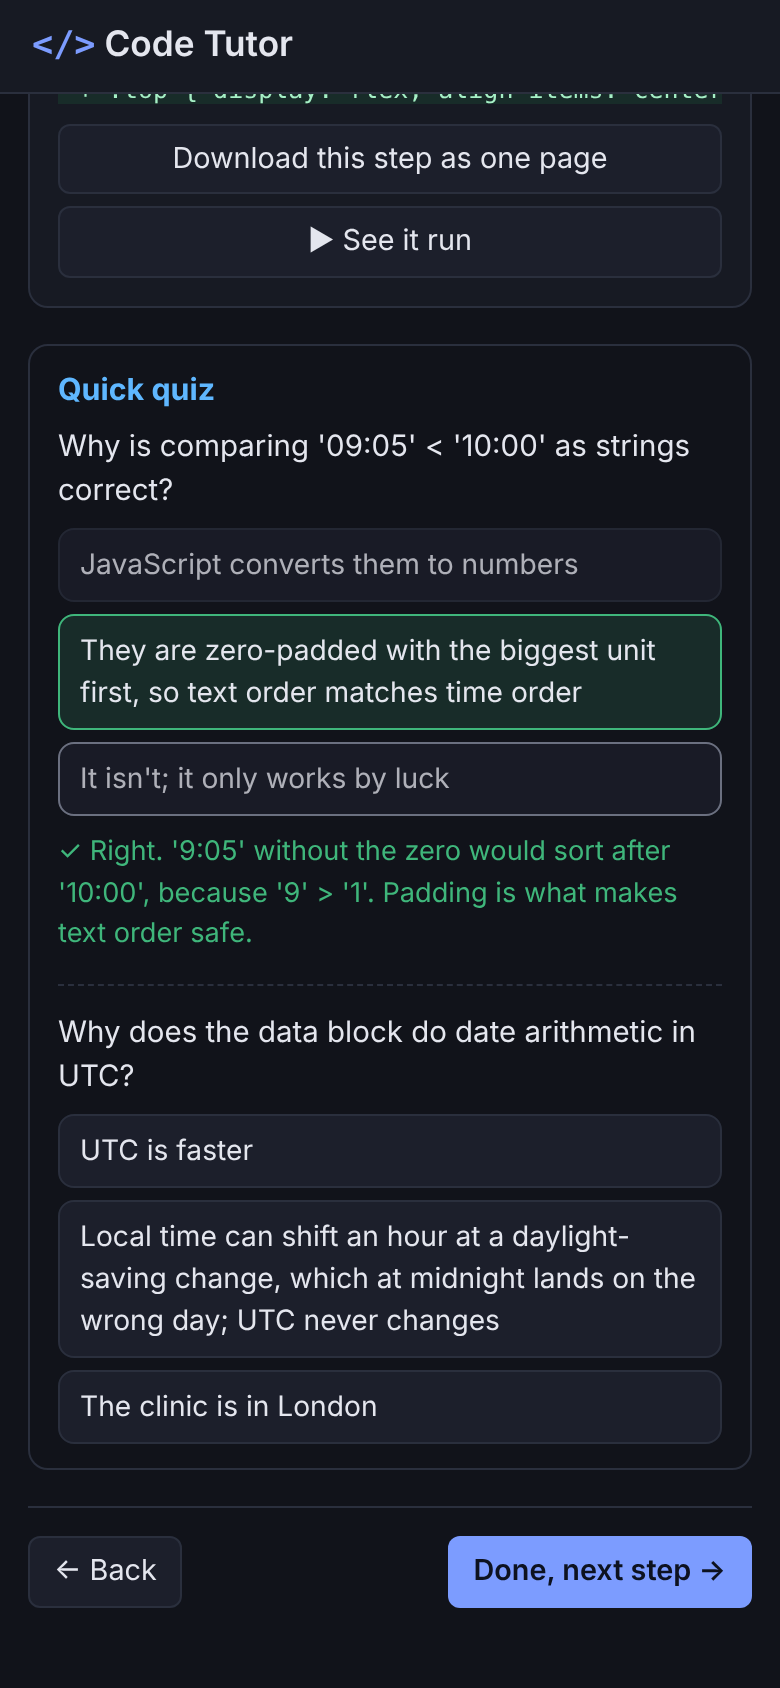
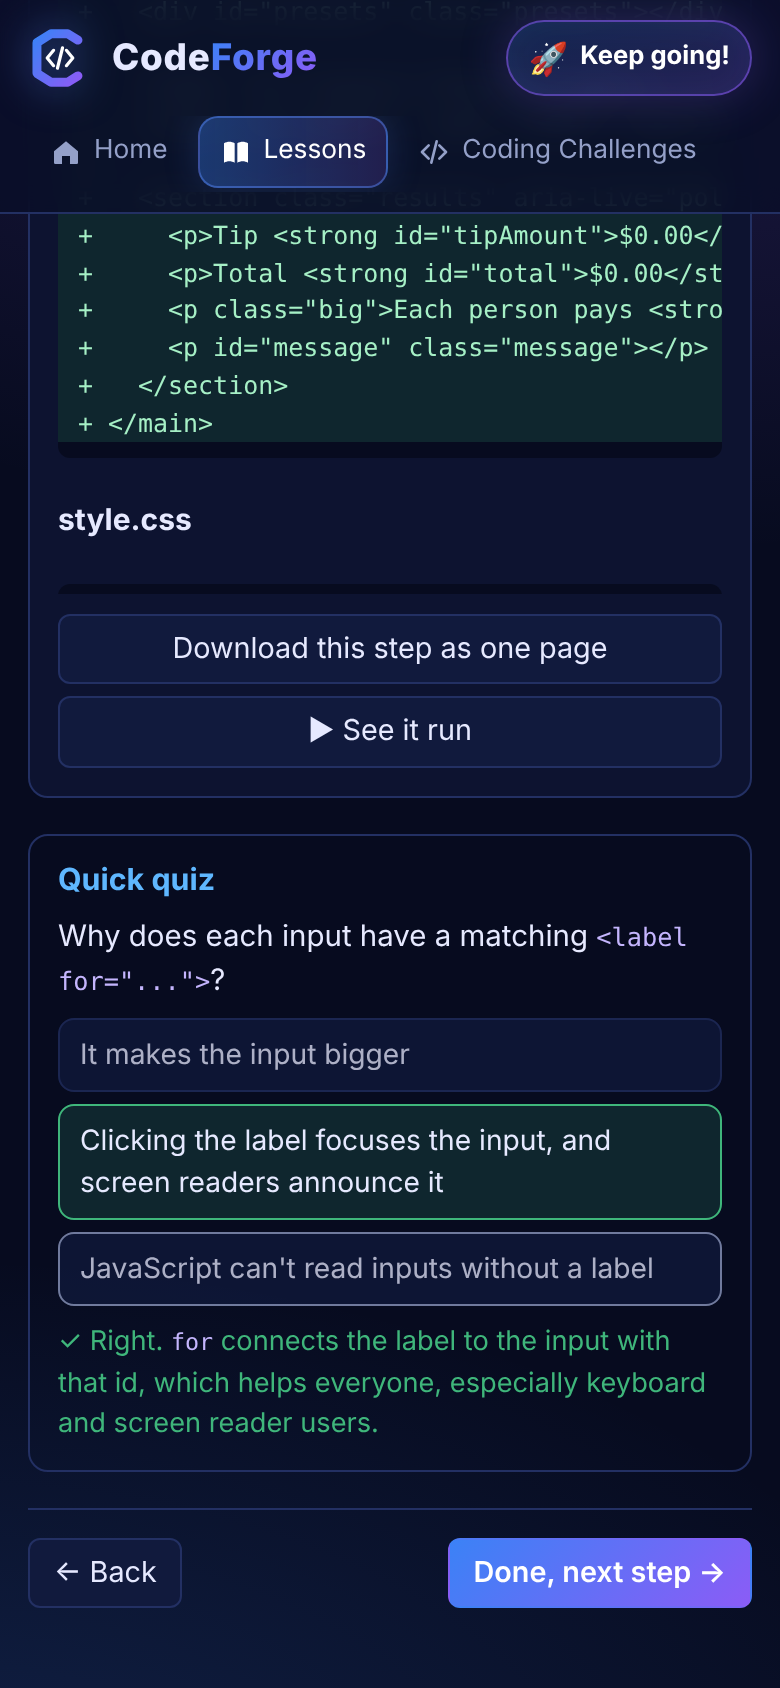
README: new screenshots and a tour of the app's pages, and no sideways scrolling on phones

diff --git a/style.css b/style.css
@@ -211,7 +211,7 @@ pre.full code { white-space: pre; }
 [hidden] { display: none !important; }
 
 @media (max-width: 860px) {
-  .app { grid-template-columns: 1fr; }
+  .app { grid-template-columns: minmax(0, 1fr); }
   .sidebar { position: sticky; top: 0; z-index: 3; height: auto; flex-direction: row; flex-wrap: wrap; align-items: center; gap: 10px; padding: 10px 14px; border-right: 0; border-bottom: 1px solid var(--line); }
   .brand-logo .logo-mark { width: 32px; height: 32px; }
   .brand-tag { display: none; }

diff --git a/README.md b/README.md
@@ -6,11 +6,11 @@ Step-by-step guides that take you from installing your first code editor to buil
 
 It's a learning guide, not a code playground: you build your own copy in your own editor (VS Code, for example), typing each step's changes yourself. Fell behind? Copy a whole file, or download the step as one page.
 
-**Tech:** vanilla JavaScript (ES modules) · HTML/CSS · a small safe Markdown renderer · LCS line diffs · sandboxed `<iframe srcdoc>` for the read-only results · `localStorage` · `node:test`
+**Tech:** vanilla JavaScript (ES modules) · HTML/CSS (Orbitron and Segoe UI, dark-first) · a small safe Markdown renderer · LCS line diffs · sandboxed `<iframe srcdoc>` for the read-only results · `localStorage` · `node:test`
 
-![A Gotham Hospital guide step: the explanation, the code changes and the finished step running](docs/tutor.png)
+![The CodeForge home page: the sidebar, the welcome banner, Start your journey, your progress ring and a featured project](docs/tutor.png)
 
-<img src="docs/tutor-quiz.png" alt="The quick quiz after a step, on a phone" width="300">
+<img src="docs/tutor-quiz.png" alt="A lesson step's quick quiz on a phone" width="300">
 
 ## The guides
 
@@ -38,6 +38,16 @@ Take them in order. Each **basics** guide builds a small project of its own and 
 | 🏥 [Gotham Hospital System](https://github.com/TheoYanvno/gotham-hospital-system) | 10 in 5 sessions · about 4.5 h · 17 quiz questions | A day schedule as a table, SQLite keys and CHECK constraints, booking rules and the overlap test, a partial unique index, upserts and reports, salted PBKDF2 sign-in, sessions, and 401/403 role permissions |
 
 The basics guides that run in a terminal or on the desktop (Python and Electron) are read-along: each step shows the code to type and run on your own computer.
+
+## The app
+
+- **Home:** a welcome banner with your next guide, the Start your journey tracks (Setup, HTML & CSS, JavaScript, Python, SQL, and C# coming soon), a progress ring for the basics, and a featured project.
+- **Lessons** and **Projects:** every guide in course order, and the project guides on their own.
+- **Coding Challenges:** the extra exercises from the end of every guide, in one place.
+- **Achievements:** badges for your first step, streaks, quiz answers and finished guides, with how far along you are on each.
+- **Progress:** steps and guides finished, your quiz score, your time and your streak, and a bar for every guide.
+- **Settings:** download your progress as a file, or reset it. Everything is saved in your browser only.
+- A **streak card** counts the days in a row you've studied.
 
 ## How a guide works
 
